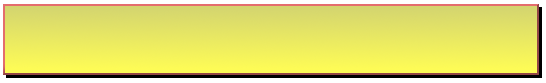
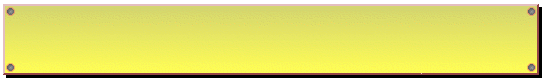
Updated the whole site. Looks a lot of better now.

Changed region(s): [[0.0, 0.0482, 0.9963, 0.8675], [0.9652, 0.747, 0.9963, 0.8675]]

diff --git a/style.css b/style.css
@@ -66,7 +66,7 @@ body
   {
 	text-align:center;
 	margin:0;
-	padding:45px 0 2px 0;
+	padding: 45px 0 2px 0;
 	margin: 0 10% 0 10%;  
   }
  
@@ -74,27 +74,31 @@ body
   {
    list-style: none;
    text-align: center;
-  	display: inline;
+   display: inline;
    padding: 3px;
    margin:0 3px 2px 0;
   }
   
   #topMenu a 
   {
-	text-decoration: none;
-	color: white;
-	font-weight: bold;	
-  }
-  #topMenu a:hover
-  {
-	color:black;
+  font-family: Arial sans;
+  font-size: 18px;
+  font-weight: bolder;
+  text-decoration: none;
+  color: white;
   }
   
-  #topMenu img {
-	  position: relative;
-	  top: -1px;
-	  margin:0 5px 0 0;
-	  border:0;
+  #topMenu a:hover
+  {
+  color:black;
+  }
+  
+  #topMenu img 
+  {
+  position: relative;
+  top: -1px;
+  margin:0 5px 0 0;
+  border:0;
   }
   
   /* LEFT PANE */
@@ -179,6 +183,10 @@ body
   margin-right: 4px;
   margin-bottom: 4px;
   }
+.playerBox a 
+  {
+	  text-decoration: none;
+  }
 .playerBoxName
   {
   font-weight: bolder;
@@ -234,40 +242,27 @@ body
   }
   .eventDate
   {
-	text-align: right;
 	font-family: Lucida Console, Arial, sans;
 	font-size: 60%;
   }
-  .eventRaid
+  .event img 
   {
-	background-image: url("images/eventRaid.png");
-	width: 48px;
-	height: 49px;
-	margin: 3px;
-	float: left;
-  }
-  .eventGift
-  {
-	background-image: url("images/eventGift.png");
-	width: 48px;
-	height: 49px;
-	margin: 3px;
-	float: left;
-  }
-  .eventRaid span
-  {
-    display: none;
+   float: right;
+   margin: 2px 2px 4px 2px;
+   border: 1px solid black;
   }
   .eventLocation
   {
 	font-family: Arial;
-	font-weight: bolder;  
-	text-align: right;
+	font-size: 70%;
   }
   .eventDescription
   {
-	clear: both;
-	font-size: 80%;
+	font-size: 90%;
+  }
+  .eventDescription a
+  {
+    text-decoration: none;
   }
   
   /* content area */
@@ -285,6 +280,11 @@ body
 	padding:0;
 	margin: 10px 0 0 0;
 	clear:both;
+  }
+  
+  #eXTReMe
+  {
+	  display: inline;
   }
   
   

diff --git a/website.php b/website.php
@@ -74,12 +74,11 @@ class Event {
   function show() {
     /* NOTE: Fill this note with the HTML code needed to draw an Event box. */
     echo '<div class="event">';
-    echo '<div class="event'.($this->type).'"><span>'.($this->type).'</span></div>';
+    echo '<img src="images/event'.($this->type).'.png" alt="event logo"/>';
+    echo '<div class="eventDescription"><a href="?id=content/scripts/event&event_id='.$this->id.'">'.($this->oneLineDescription).'</a></div>';
     echo '<div class="eventDate">'.($this->date).'</div>';
     echo '<div class="eventLocation">'.($this->location).'</div>';
-    echo ' <a href="?id=content/scripts/event&event_id='.$this->id.'">';
-    echo '<div class="eventDescription">'.($this->oneLineDescription).'</div>';
-    echo ' </a>';
+    echo '<span style="clear: left;"></span>';
     echo '</div>';
     /* END NOTE */
   }
